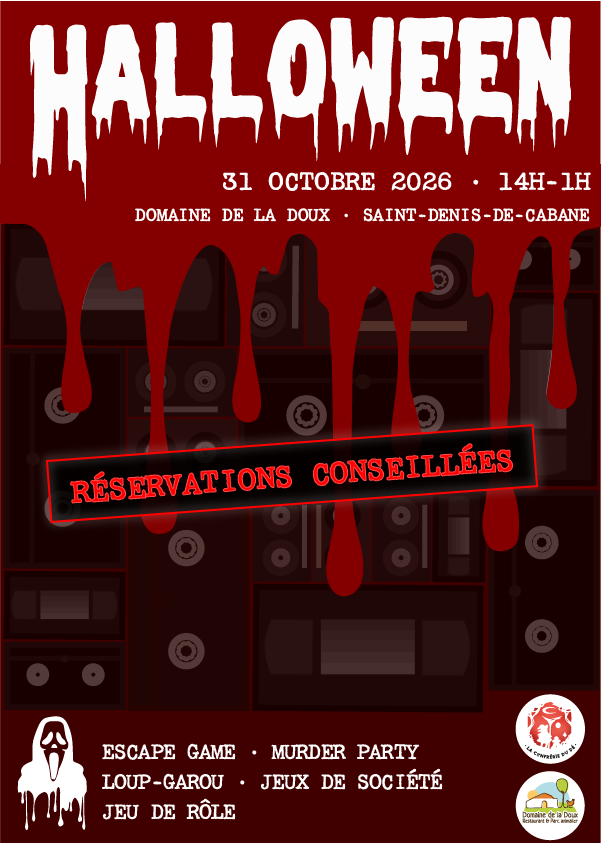
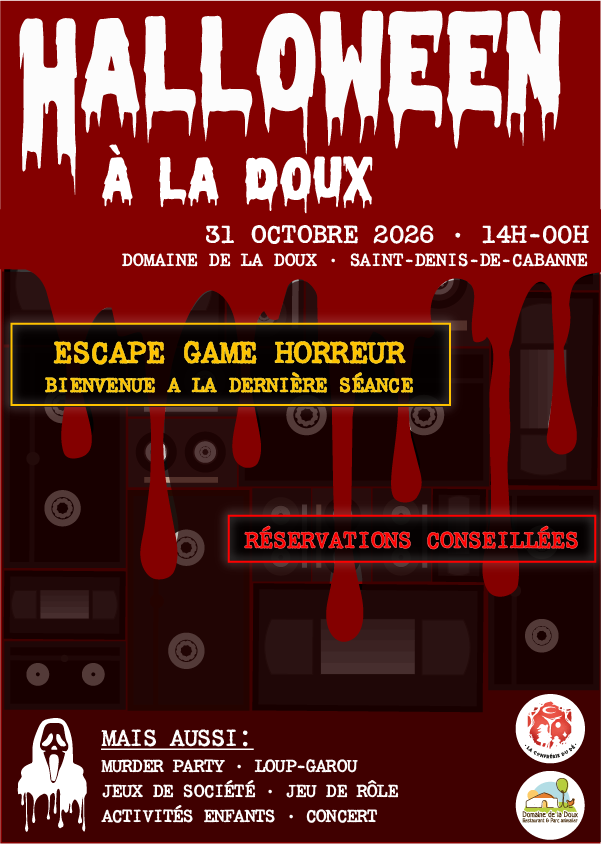
affiche and link

diff --git a/halloween-2026/index.html b/halloween-2026/index.html
@@ -197,7 +197,7 @@ footer .footer-actions{margin-top:28px;display:flex;justify-content:center;gap:1
       <h1>Halloween à La Doux</h1>
       <p class="lead">Pour la 3e année, Daniel et Sophie nous ouvrent leur domaine pour une journée et une nuit d'horreur. Cinq activités, des frissons aux jeux de société, sur une seule journée.</p>
       <div class="hero-actions">
-        <a class="btn btn-primary" href="https://www.helloasso.com/associations/la-confrerie-du-de" target="_blank" rel="noopener noreferrer">Réserver ↗</a>
+        <a class="btn btn-primary" href="https://www.helloasso.com/associations/la-confrerie-du-de/evenements/halloween-a-la-doux-1" target="_blank" rel="noopener noreferrer">Réserver ↗</a>
         <a class="btn btn-ghost" href="#tarifs">Tarifs</a>
       </div>
       <ul class="info">
@@ -289,7 +289,7 @@ footer .footer-actions{margin-top:28px;display:flex;justify-content:center;gap:1
   </div>
 </footer>
 
-<a class="reserve-float" href="https://www.helloasso.com/associations/la-confrerie-du-de" target="_blank" rel="noopener noreferrer" aria-label="Réserver pour Halloween 2026 sur HelloAsso">
+<a class="reserve-float" href="https://www.helloasso.com/associations/la-confrerie-du-de/evenements/halloween-a-la-doux-1" target="_blank" rel="noopener noreferrer" aria-label="Réserver pour Halloween 2026 sur HelloAsso">
   Réserver
   <span class="arrow" aria-hidden="true">↗</span>
 </a>
